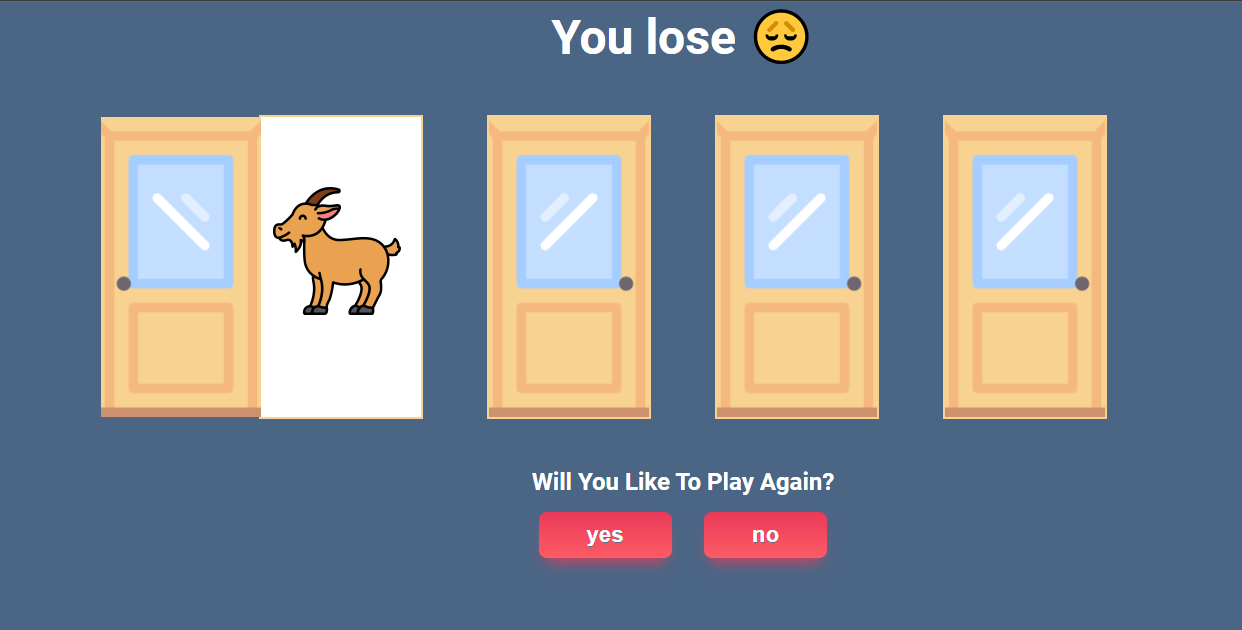
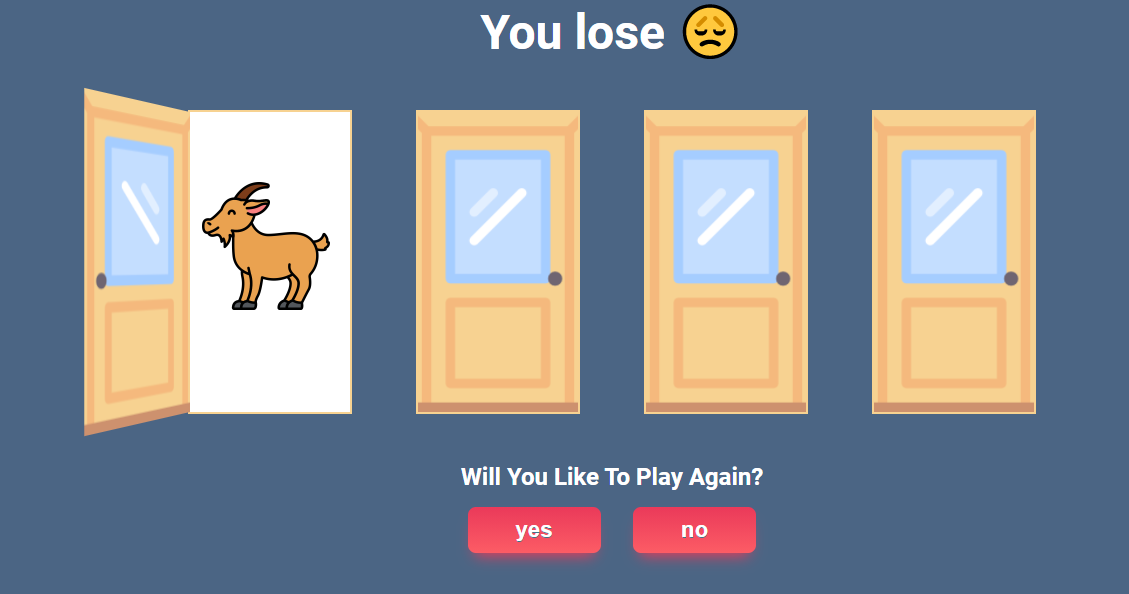
fix the door animation and gave it a 3d effect

diff --git a/style.css b/style.css
@@ -37,7 +37,7 @@ body {
   width: 100%;
   height: 100%;
   object-fit: cover;
-  transition: all 5s;
+  transition: all 0.5s;
   transform-origin: left;
   width: 10rem;
 }
